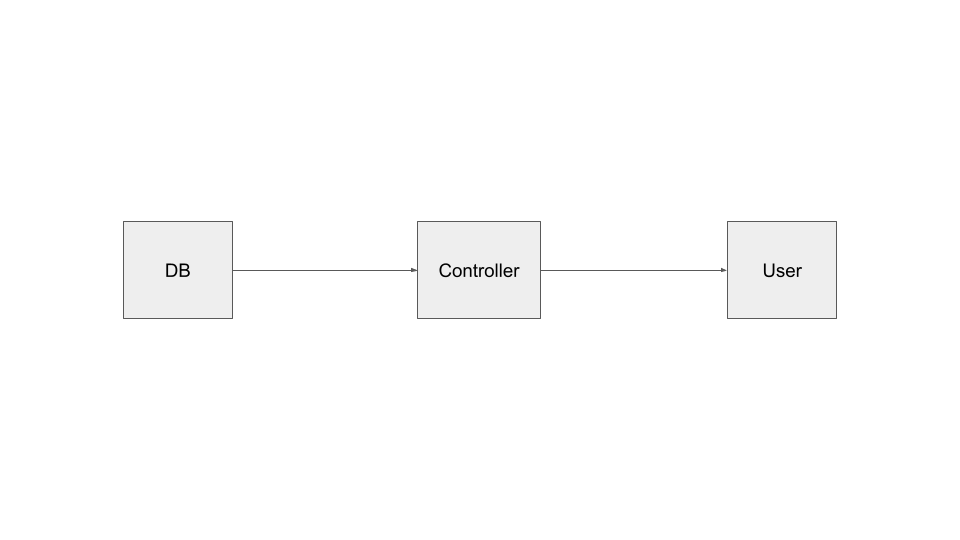
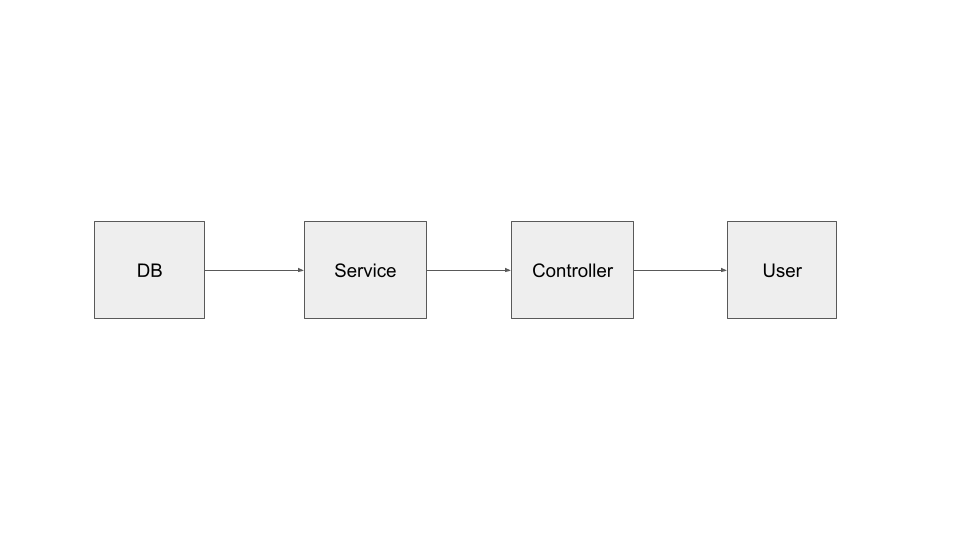
update

Changed region(s): [[0.3438, 0.4741, 0.6562, 0.5333], [0.125, 0.4741, 0.2188, 0.5333]]

diff --git a/slides/main/refactorDatasets.js b/slides/main/refactorDatasets.js
@@ -53,7 +53,7 @@ const Scope = ({ direction, step }) => {
         )}
         {step >= 3 && (
           <MListItem {...toggleOpacity} custom="enter">
-            <Text textStyle="body1">Replace existing controller functions</Text>
+            <Text textStyle="body1">Update controller and service layer</Text>
           </MListItem>
         )}
       </UnorderedList>
